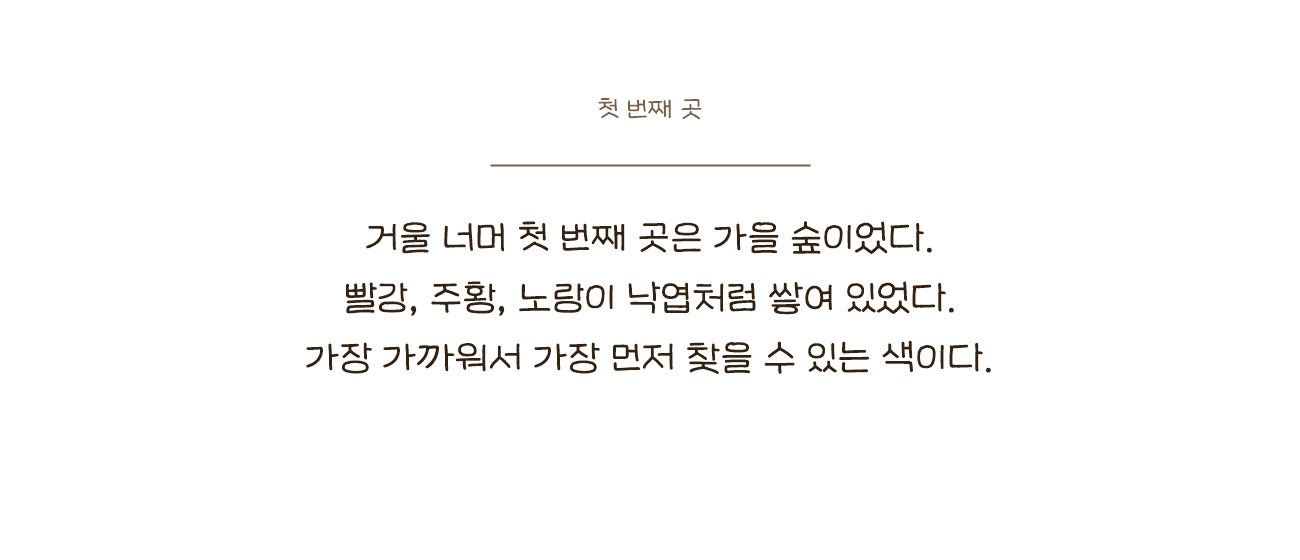
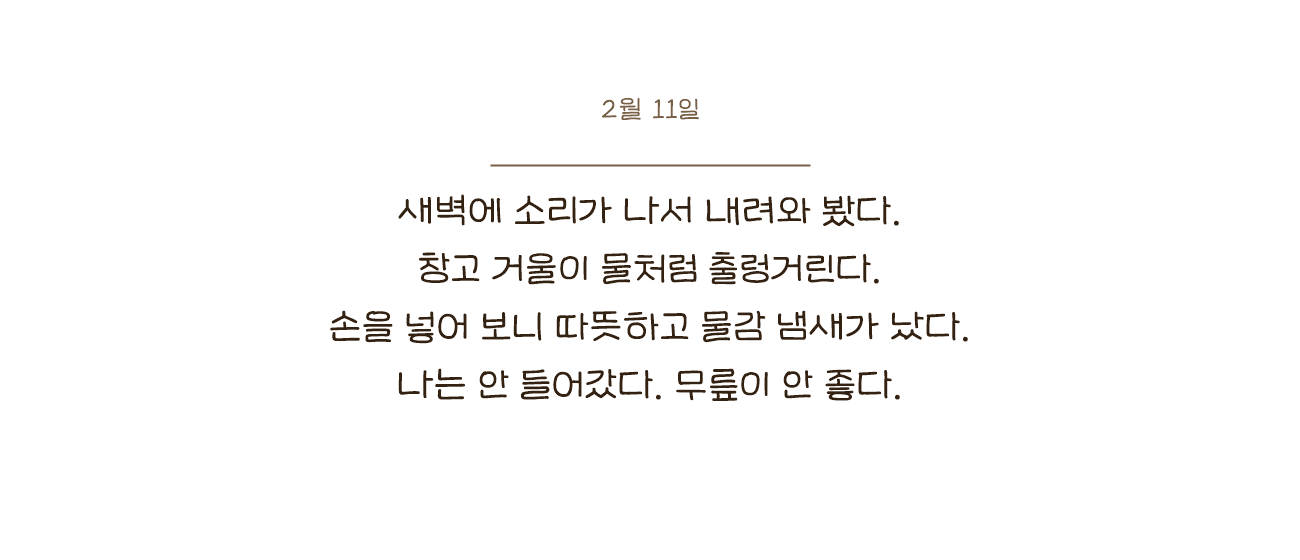
스토리 글 다시 쓰기: AI 티 줄이기(날짜 일기, 구체적 사물, 투덜대는 말투), 편지·결말 정리

Changed region(s): [[0.2462, 0.3339, 0.7692, 0.7286], [0.4615, 0.1518, 0.5538, 0.2125]]

diff --git a/docs/claude/SESSION_HANDOFF.md b/docs/claude/SESSION_HANDOFF.md
@@ -779,3 +779,4 @@ Phase 1에서 한 일 (2026-10-29):
 - 주의: 책상 오브젝트는 3ds Max 축 변환으로 기울어 있어 `TransformPoint`를 쓰면 방향이 틀어진다 → 책상 위치에 월드 오프셋(+2m, 0, 0)을 더한다. 기존 사용자라도 일기장을 한 번도 안 열었다면(`GuideDone` 없음) 안내가 뜬다.
 - 확인(미술관 실행): 기억을 지우고 들어가니 편지가 먼저 열리고 그동안 표시가 안 보임 → 닫으면 화살표 9개 + 고리 + 위쪽 안내 글이 나타나 책상 쪽(서쪽)으로 이어짐(화면 캡처) → 고리 자리에 서면 "[E] 일기장 읽기"가 뜸 → 일기장을 열면 표시 전부 사라짐. 테스트 뒤 기억을 다시 지워 사용자의 다음 첫 입장에 편지와 안내가 뜬다. 못 본 것: 화살표가 가구에 겹쳐 보이는 경우(길이 직선이라 가구를 가로지를 수 있음), 다시하기 뒤 재표시.
 - (2026-11-11 사용자 요청 "스토리를 더 채우고 부모님 편지에는 일기장으로 가 보라고만 써 줘") ① **부모님의 편지를 2쪽으로 줄였다**(`0_OpeningPages.txt`): "사랑하는 우리 아이에게, 할아버지가 지키시던 미술관의 열쇠를 건넨다." → "먼저 책상 위의 일기장으로 가 보렴. 바닥의 표시를 따라가면 된단다. 엄마, 아빠가." ② **할아버지 일기장을 4쪽 → 10쪽으로 채웠다**(`Diary_01~10.png`, 이서윤체, 쪽마다 시점 글자 + 본문 3줄): 첫 장(손님은 셋뿐) → 그해 봄(색이 가장 환하던 때) → 여러 해 뒤(색이 빠져나감, 미술관이 색을 숨기려는 걸까) → 어느 밤(거울 너머 숲) → 첫 번째 곳(숲: 빨강·주황·노랑) → 두 번째 곳(성 마을: 초록·파랑·보라) → 마지막 곳(사막: 분홍·하양·검정) → 그림자(색을 노리는 그림자, 잡으면 삼킨 색이 터져 나옴) → 열쇠(아버지에게 맡겨 둠, 네가 스스로 문을 열기를 바랐다) → 마지막 장(액자를 다시 채워 다오). `DiaryPopup`의 Pages를 10장으로 연결(씬 저장), `Phase76`은 있는 만큼 읽는다. ③ **결말을 9쪽으로**: 거울 너머가 조용해지고 그림자들이 삼킨 색이 돌아오는 쪽을 추가, 열쇠 쪽을 "부모님이 열쇠와 편지를 건네주셨다. 편지에는 일기장으로 가 보라는 말뿐이었다"로 맞춤. 확인(미술관 실행): 편지 1·2쪽, 일기장 "8 / 10"·결말 "5 / 9" 화면 확인. 테스트 뒤 '봤다' 기억을 지워 다음 첫 입장에 편지와 길 안내가 뜬다. 못 본 것: 일기장 9·10쪽 외 나머지 쪽의 줄 길이(한 줄이 길면 가로가 넘칠 수 있어 3·6쪽 등은 눈으로 안 봄).
+- (2026-11-11 사용자 지적 "스토리가 좀 별로야" → 이유: 너무 평범하고 뻔하고, 글이 AI 같다 → 방향: "AI티 더 안 나게") **이야기 글을 처음부터 다시 썼다.** AI 티가 났던 이유(쪽마다 같은 정돈된 3줄, 추상적인 감정 요약, 구체적인 물건·웃음 없음)를 없애려고 **구체적인 사물 + 투덜대는 말투 + 약간의 웃음 + 줄 수가 들쭉날쭉한 일기** 로 바꿨다. 뼈대(거울, 숨겨진 색, 열쇠, 일기장, 액자 9개, 숲·성 마을·사막, 그림자)는 그대로. ① 일기장 10쪽(`Diary_01~10.png`)을 **날짜가 붙은 진짜 일기**로: 4월 3일 손님 세 명(우유 아저씨, 맨날 오는 할머니, 화장실 빌리러 온 옆집 꼬마) → 비 오는 날 9번 액자 앞에 서 있는 할머니 → 9번 액자가 허옇다 → 난로 값 아끼려고 석 달 문을 닫았더니 액자가 전부 허옇다("삐진 모양") → 거울이 물처럼 출렁, 물감 냄새, 무릎 때문에 안 들어감 → 가을 숲 색을 3번 액자에 바르니 그 액자만 돌아옴 → 성 마을·사막 → 거울 안 시커먼 것들, 빗자루로 쫓음("너는 더 좋은 걸 들고 가라") → 열쇠는 아빠에게(아빠는 미술관을 싫어함) → 액자는 아홉 개, "나도 못 그린다", 손님은 셋이면 된다. 그림 제작은 줄 수 자유로운 스크립트(스크래치패드 `make_diary2.ps1`, 이서윤체, 날짜 글+가는 줄+본문 2~5줄)로 했고 가로 최대 801/1300px라 안 넘친다. ② 부모님 편지는 짧은 반말 2쪽("열쇠 보낸다. 할아버지가 하시던 미술관 열쇠다." / "책상 위 일기장부터 읽어 봐. 바닥에 표시가 있을 거다. 엄마 아빠가"). ③ 결말 8쪽: 아홉 번째 그림이 삐뚤다(수평자) → 거울이 출렁하고 물감 냄새 → 거울 너머는 평범한 풍경 → "문을 닫아 둬서 삐진 거였다" → 엄마 아빠는 끝까지 이 얘기를 안 하려 했다 → "나도 못 그린다. 맞다. 아홉 장 다 못 그렸다" → 빈 액자는 없다, 일단 문부터 열어 두자 → 그림을 쭉 펼쳐 봤다. 확인(미술관 실행): 일기장 1·4·9쪽, 결말 5쪽, 내가 그린 그림 창 화면 확인(화면 캡처가 한 쪽씩 밀려 나와 쪽 번호는 화면의 "n / 10"으로 맞춰 봄). 못 본 것: 일기장 2·3·5~8·10쪽의 실제 화면(줄 폭은 수치로만 확인), 편지 1·2쪽 화면. 글은 여전히 Claude의 초안이라 사용자가 고칠 말투/사건을 말하면 더 바꾼다.
